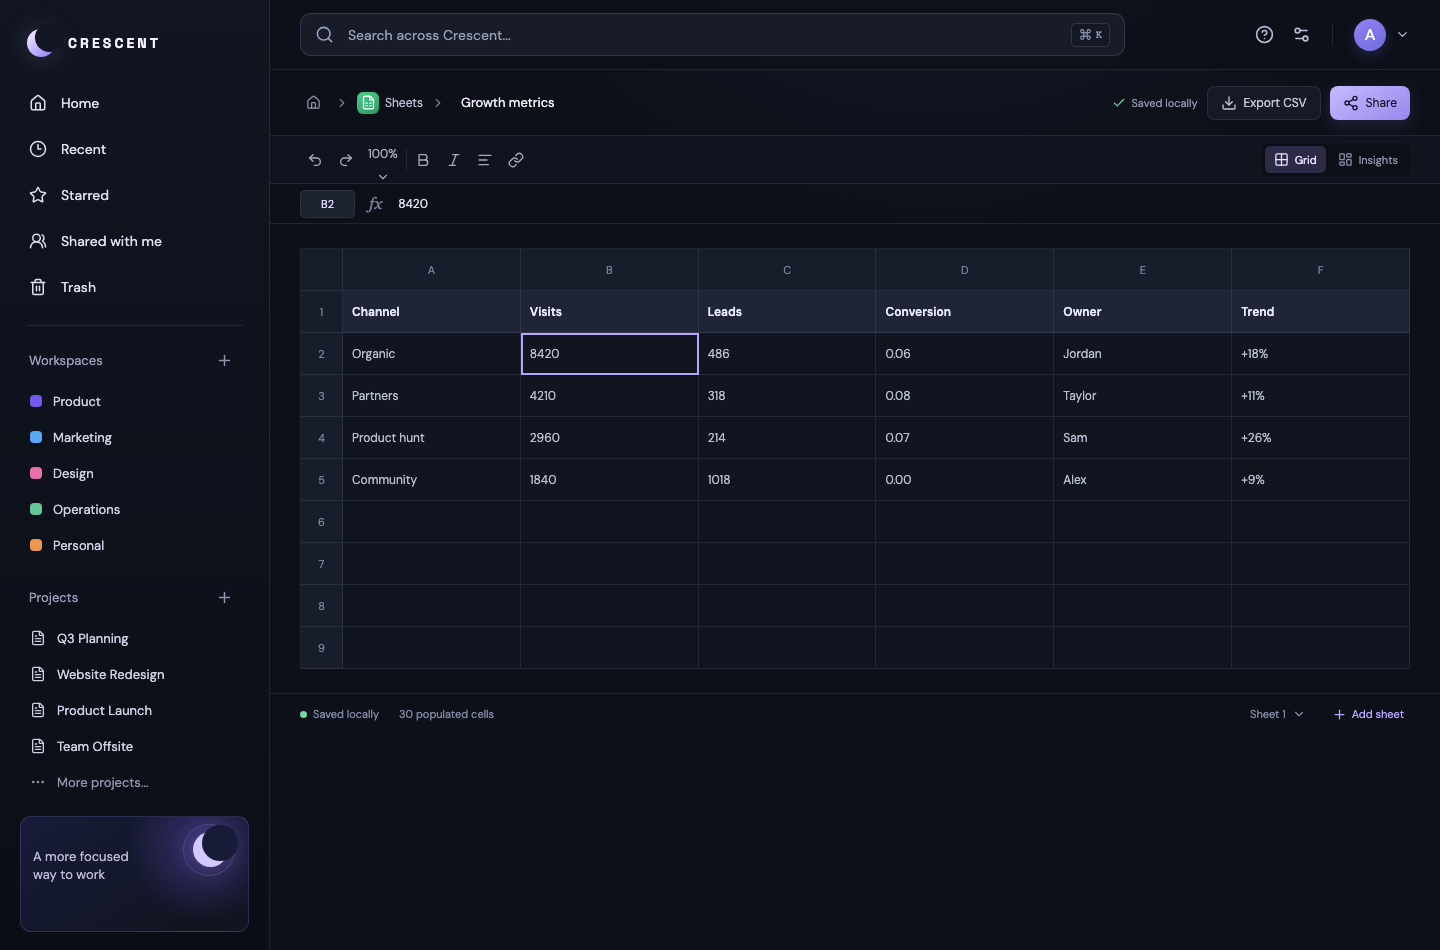
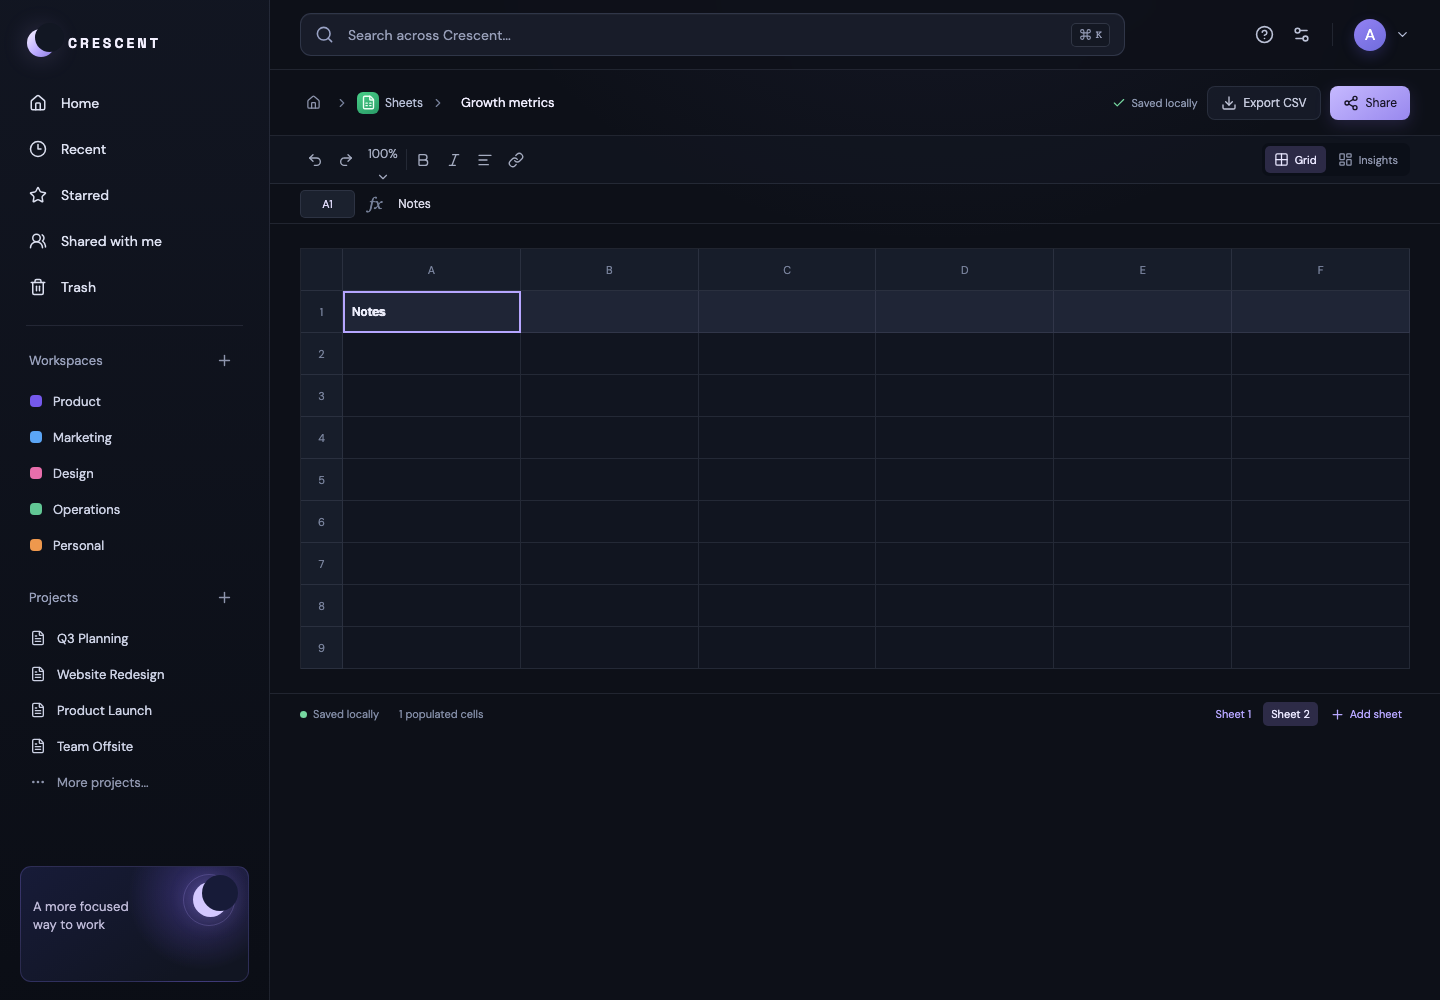
docs: refresh sheets preview

diff --git a/README.md b/README.md
@@ -4,7 +4,7 @@ An all-in-one productivity workspace built to keep the work in one calm, consist
 
 ## Current release
 
-**v0.1.36 — Sheets has local undo and redo**
+**v0.1.37 — Sheets visual checkpoint refreshed**
 
 The first release establishes the Crescent product shell and a local-first suite experience:
 
@@ -36,6 +36,7 @@ The first release establishes the Crescent product shell and a local-first suite
 - Calendar Previous and Today controls now move and reset the displayed week/month context while preserving local events
 - Sheets Add sheet creates a real local tab with independent cells and restores the active tab after reload
 - Sheets Undo and Redo now track recent workbook edits, including cell edits and tab creation
+- Updated the committed Sheets preview with the new Sheet 2 tab and independent cell surface
 - Home’s Continue working and Recent shelves now use current local Docs, Sheets, Slides, and Notes titles
 - Drive’s Recent files shelf mirrors the same live workspace records, so creating a draft no longer leaves stale demo cards behind
 - Settings can download a versioned JSON backup of the local workspace and restore it later on the same device

diff --git a/CHANGELOG.md b/CHANGELOG.md
@@ -1,5 +1,19 @@
 # Changelog
 
+## v0.1.37 — Sheets visual checkpoint refreshed
+
+Published September 9, 2026.
+
+### Changed
+
+- Refreshed `docs/preview/sheets.png` to show the persistent tab strip with Sheet 2 selected and local cell content.
+
+### Verification
+
+- Captured the screenshot from the running Vite app after creating Sheet 2 and entering a value in A1, then visually reviewed it.
+- `npm run lint` passes with zero warnings.
+- `npm run build` passes.
+
 ## v0.1.36 — Sheets has local undo and redo
 
 Published September 9, 2026.
